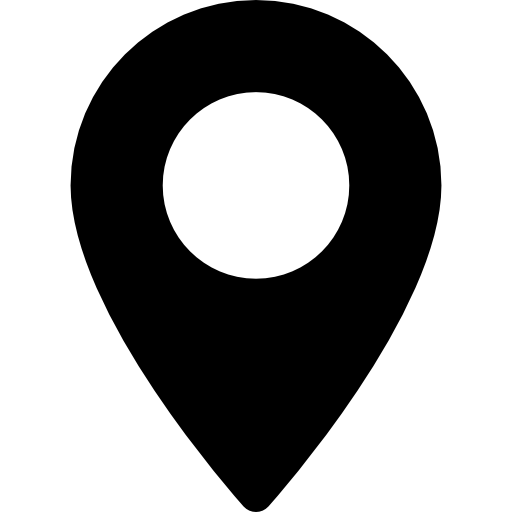
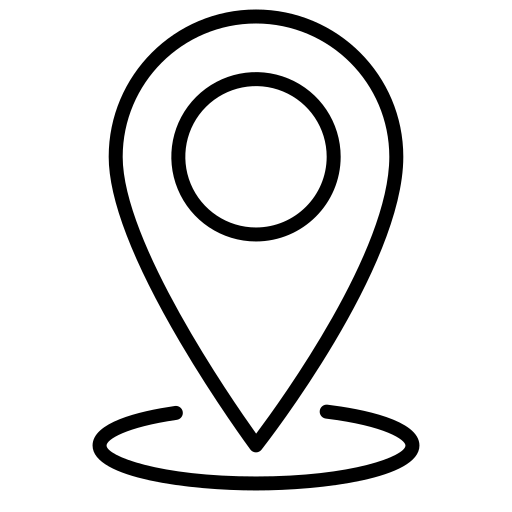
new packaging war and new css classes

diff --git a/web/src/components/Dresscode.vue b/web/src/components/Dresscode.vue
@@ -3,21 +3,21 @@
 	  <div class="titles">
 		<h1 class="title">Dresscode</h1>
 	  </div>
-	  <div class="locations">
-		<div class="church">
+	  <div class="dresscode">
+		<div class="side">
 		  <span class="bold">otoño elegante</span>
-		  <a href="#" target="_blank" class="icon-location">
-			<img src="../assets/man-gender.png" alt="Ubicación de la iglesia">
-		  </a>
-		  <span class="where">traje formal negro</span>
+		  <div class="icon-gender">
+			<img src="../assets/male-gender.png" alt="Género masculino">
+		  </div>
+		  <span>traje formal negro</span>
 		</div>
 		<div class="separator"></div>
-		<div class="party">
+		<div class="side">
 		  <span class="bold">atuendo formal</span>
-		  <a href="#" target="_blank" class="icon-location">
-			<img src="../assets/woman-gender.png" alt="Ubicación de la fiesta">
-		  </a>
-		  <span class="where">vestido largo</span>
+		  <div class="icon-gender">
+			<img src="../assets/female-gender.png" alt="Género femenino">
+		  </div>
+		  <span>vestido largo</span>
 		</div>
 	  </div>
 	  <div class="the-colors">
@@ -69,11 +69,6 @@
 	transform: translateY(25px);
   }
 
-  .dresscode{
-	display: flex;
-	flex-direction: column;
-	align-items: flex-start;
-  }
   .the-colors{
 	padding-bottom: 6px;
 	display: flex;
@@ -145,11 +140,7 @@
 	background-color: #faa842;
   }
 
-  .where{
-	display: flex;
-	align-items: center;
-  }
-  .locations{
+  .dresscode{
 	display: flex;
 	justify-content: center;
 	align-items: center;
@@ -163,7 +154,7 @@
 	background-color: #0000002e;
   }
 
-  .church, .party{
+  .side{
 	display: flex;
 	flex-direction: column;
 	gap: 5px;
@@ -172,8 +163,7 @@
 	width: 150px;
   }
 
-.icon-location{
-	cursor: pointer;
+.icon-gender{
 	width: 20px;
 }
   

diff --git a/web/src/components/Details.vue b/web/src/components/Details.vue
@@ -21,7 +21,7 @@
 		<div class="church">
 		  <span class="bold">ceremonia</span>
 		  <a href="https://maps.app.goo.gl/Gdr5KhaH3z231UQt5" target="_blank" class="icon-location">
-			<img src="../assets/location-2.png" alt="Ubicación de la iglesia">
+			<img src="../assets/location.png" alt="Ubicación de la iglesia">
 		  </a>
 		  <span class="where">santo domingo de silos</span>
 		</div>
@@ -29,7 +29,7 @@
 		<div class="party">
 		  <span class="bold">party</span>
 		  <a href="https://maps.app.goo.gl/5wzmC2yJCt6qVxua9" target="_blank" class="icon-location">
-			<img src="../assets/location-2.png" alt="Ubicación de la fiesta">
+			<img src="../assets/location.png" alt="Ubicación de la fiesta">
 		  </a>
 		  <span class="where">finca buenos aires</span>
 		</div>

diff --git a/web/src/components/ConfirmForm.vue b/web/src/components/ConfirmForm.vue
@@ -61,7 +61,7 @@ export default {
     methods: {
         updateAttendance() {
             if (this.members) {
-                this.showMessageSubmit = 'sending'; // Mostrar mensaje de envío
+                this.showMessageSubmit = 'sending';
                 const updatedMembers = this.members.members.map((member) => ({
                     idPerson: member.idPerson,
                     accepted: member.accepted,
